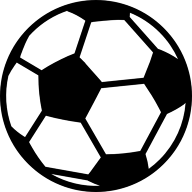
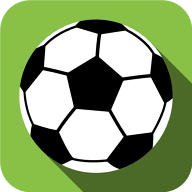
Nuevo icono

diff --git a/appCanchaLaPrimaera/platforms/android/assets/www/retos.html b/appCanchaLaPrimaera/platforms/android/assets/www/retos.html
@@ -142,7 +142,7 @@
             <ul>
                 <li class="waves-effect waves-light">
                     <a href="#!">
-                        En esta página puedes proponer retos para que otras personas los vean y acepten jugar contra ti y tu equipo jxkjahskjdhakjhsdkjahskjdhakjshdkjahsdjkahksdhakshdkahk
+                        En esta página puedes proponer retos para que otras personas los vean y acepten jugar contra ti y tu equipo
                     </a>
                 </li>
             </ul>

diff --git a/appCanchaLaPrimaera/platforms/browser/www/retos.html b/appCanchaLaPrimaera/platforms/browser/www/retos.html
@@ -142,7 +142,7 @@
             <ul>
                 <li class="waves-effect waves-light">
                     <a href="#!">
-                        En esta página puedes proponer retos para que otras personas los vean y acepten jugar contra ti y tu equipo jxkjahskjdhakjhsdkjahskjdhakjshdkjahsdjkahksdhakshdkahk
+                        En esta página puedes proponer retos para que otras personas los vean y acepten jugar contra ti y tu equipo
                     </a>
                 </li>
             </ul>

diff --git a/appCanchaLaPrimaera/platforms/android/assets/www/css/common.css b/appCanchaLaPrimaera/platforms/android/assets/www/css/common.css
@@ -47,5 +47,6 @@ i.right {
 }
 
 .fixed-action-btn.toolbar ul li a {
+    margin-top: 10px;
     line-height: normal;
 }

diff --git a/appCanchaLaPrimaera/platforms/browser/www/css/common.css b/appCanchaLaPrimaera/platforms/browser/www/css/common.css
@@ -47,5 +47,6 @@ i.right {
 }
 
 .fixed-action-btn.toolbar ul li a {
+    margin-top: 10px;
     line-height: normal;
 }

diff --git a/appCanchaLaPrimaera/www/css/common.css b/appCanchaLaPrimaera/www/css/common.css
@@ -47,5 +47,6 @@ i.right {
 }
 
 .fixed-action-btn.toolbar ul li a {
+    margin-top: 10px;
     line-height: normal;
 }
